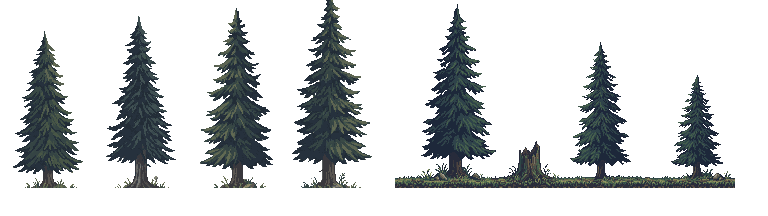
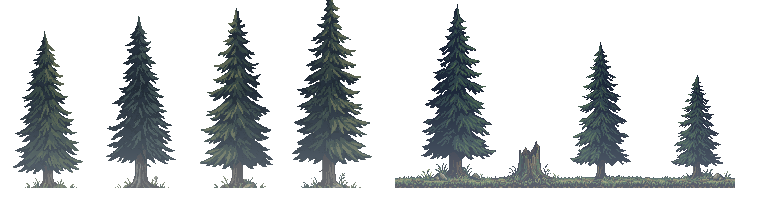
Mist the Pine Ridge boughs and test the forest roads end to end
- Pine Ridge's near strip gets the same ground mist as Old Grove and
  Firefly Hollow, so the dark pines no longer swallow Moss.
- An integration test renders every forest at its first sheer step and
  finds the cliff face, and checks forests 2-6 open with their way-in
  layer, which scrolls away down the road.

Claude-Session: https://claude.ai/code/session_01DLt1Jg2BCaH537LUUiquP4

Changed region(s): [[0.0, 0.6111, 0.5, 0.8889], [0.5, 0.6111, 0.9688, 0.8889]]

diff --git a/apps/web/games/steel-and-dust/test/integration/render/forest-roads.test.js b/apps/web/games/steel-and-dust/test/integration/render/forest-roads.test.js
@@ -1,0 +1,74 @@
+import { describe, expect, it } from 'vitest';
+import { PAINTED_BACKDROPS } from '../../../src/data/backdrops/index.js';
+import { MISSIONS } from '../../../src/data/missions/index.js';
+import { createView } from '../../../src/render/create-view.js';
+import { renderFrame } from '../../../src/render/render-frame.js';
+import { selectMission, startPlay } from '../../../src/sim/stage/flow.js';
+import { groundAt } from '../../../src/sim/stage/terrain.js';
+import { FakeImage } from '../../support/fake-image.js';
+import { RecordingCanvas } from '../../support/recording-canvas.js';
+import { createTestGame, runTicks } from '../../support/test-game.js';
+
+function createCanvas(width, height) {
+  return Object.assign(new RecordingCanvas(), { width, height });
+}
+
+const forests = MISSIONS.filter((mission) => PAINTED_BACKDROPS[mission.theme]);
+
+// the first column where the road jumps by more than a step, past the level start
+function firstSheerStep(mission) {
+  for (let x = 301; x < mission.length; x++) {
+    if (Math.abs(groundAt(mission.terrain, x) - groundAt(mission.terrain, x - 1)) > 8) {
+      return x;
+    }
+  }
+  return null;
+}
+
+function renderAt(mission, cameraX) {
+  const screen = createCanvas(768, 432);
+  const view = createView({
+    context: screen.getContext('2d'),
+    createCanvas,
+    createImage: () => new FakeImage(),
+    baseUrl: '',
+  });
+  const game = createTestGame();
+  selectMission(game, mission.index);
+  startPlay(game);
+  runTicks(game, 2);
+  game.camera.x = cameraX;
+  const log = screen.recording.log;
+  log.length = 0;
+  renderFrame(game, view);
+  return log;
+}
+
+describe('the forest roads', () => {
+  it('give the sheer steps of every forest a cliff face from its own folder', () => {
+    for (const mission of forests) {
+      const step = firstSheerStep(mission);
+      expect(step, mission.name).not.toBeNull();
+      const log = renderAt(mission, step - 150);
+      const faces = log.filter(
+        (call) =>
+          call.startsWith('drawImage(img(cliff.png)') || call.startsWith('drawImage(canvas(12x64'),
+      );
+      expect(faces.length, mission.name).toBeGreaterThan(0);
+    }
+  });
+
+  it('open every forest after the first with a piece of the forest before it, drawn once', () => {
+    for (const mission of forests.slice(1)) {
+      const { layers } = PAINTED_BACKDROPS[mission.theme];
+      expect(layers.find((layer) => layer.name === 'way-in')?.once, mission.name).toBe(true);
+      const atStart = renderAt(mission, 0).filter((call) => call.includes('img(way-in.png)'));
+      expect(atStart, mission.name).toHaveLength(1);
+      const farOn = renderAt(mission, 1200).filter((call) => call.includes('img(way-in.png)'));
+      expect(
+        farOn.every((call) => Number(call.split(',')[1]) < -300),
+        mission.name,
+      ).toBe(true);
+    }
+  });
+});

diff --git a/apps/web/games/steel-and-dust/assets/backdrops/README.md b/apps/web/games/steel-and-dust/assets/backdrops/README.md
@@ -56,8 +56,8 @@ tiles side by side, and every road got a cliff face. All of it is reproducible w
 - **Near strips.** Raider Camp's strip is `sink` 6 rows, so its tents and crates stand on the road's
   far edge instead of on the plate's yard (its fire emitters moved down with it); a warm dust `mist`
   now hangs over the yard. Old Grove (`#b8ccaa`, 0.38) and Firefly Hollow (`#6e6fa6`, 0.34) got
-  `groundhaze` from row 70 to 176, a ground mist that keeps their dark trunk bases from swallowing
-  the fighters. Bamboo Pass, Ember Woods and Firefly Hollow passed their trunks at one even rhythm;
+  `groundhaze` from row 70 to 176, and Pine Ridge (`#c9d5da`, 0.3) from row 90 to 178, a ground
+  mist that keeps their dark trunks and lower boughs from swallowing the fighters. Bamboo Pass, Ember Woods and Firefly Hollow passed their trunks at one even rhythm;
   `vary` joins each strip with a copy that leaves one trunk or clump out (768 wide).
 - **Cliffs.** `cliff.png` (12x64) in every folder is the face of a step whose high ground is on the
   left, drawn down each sheer step (`src/render/scene/cliff-faces.js`). One PixelLab Create Image
